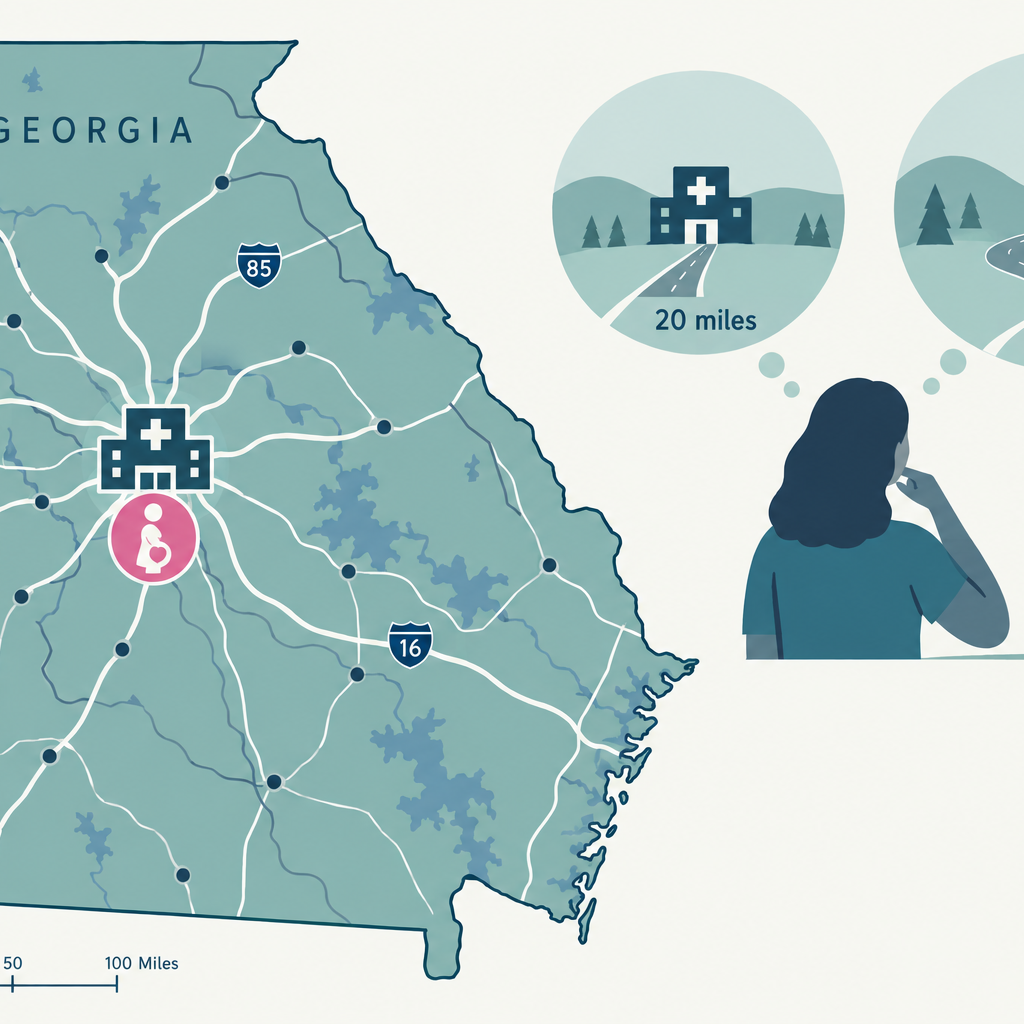
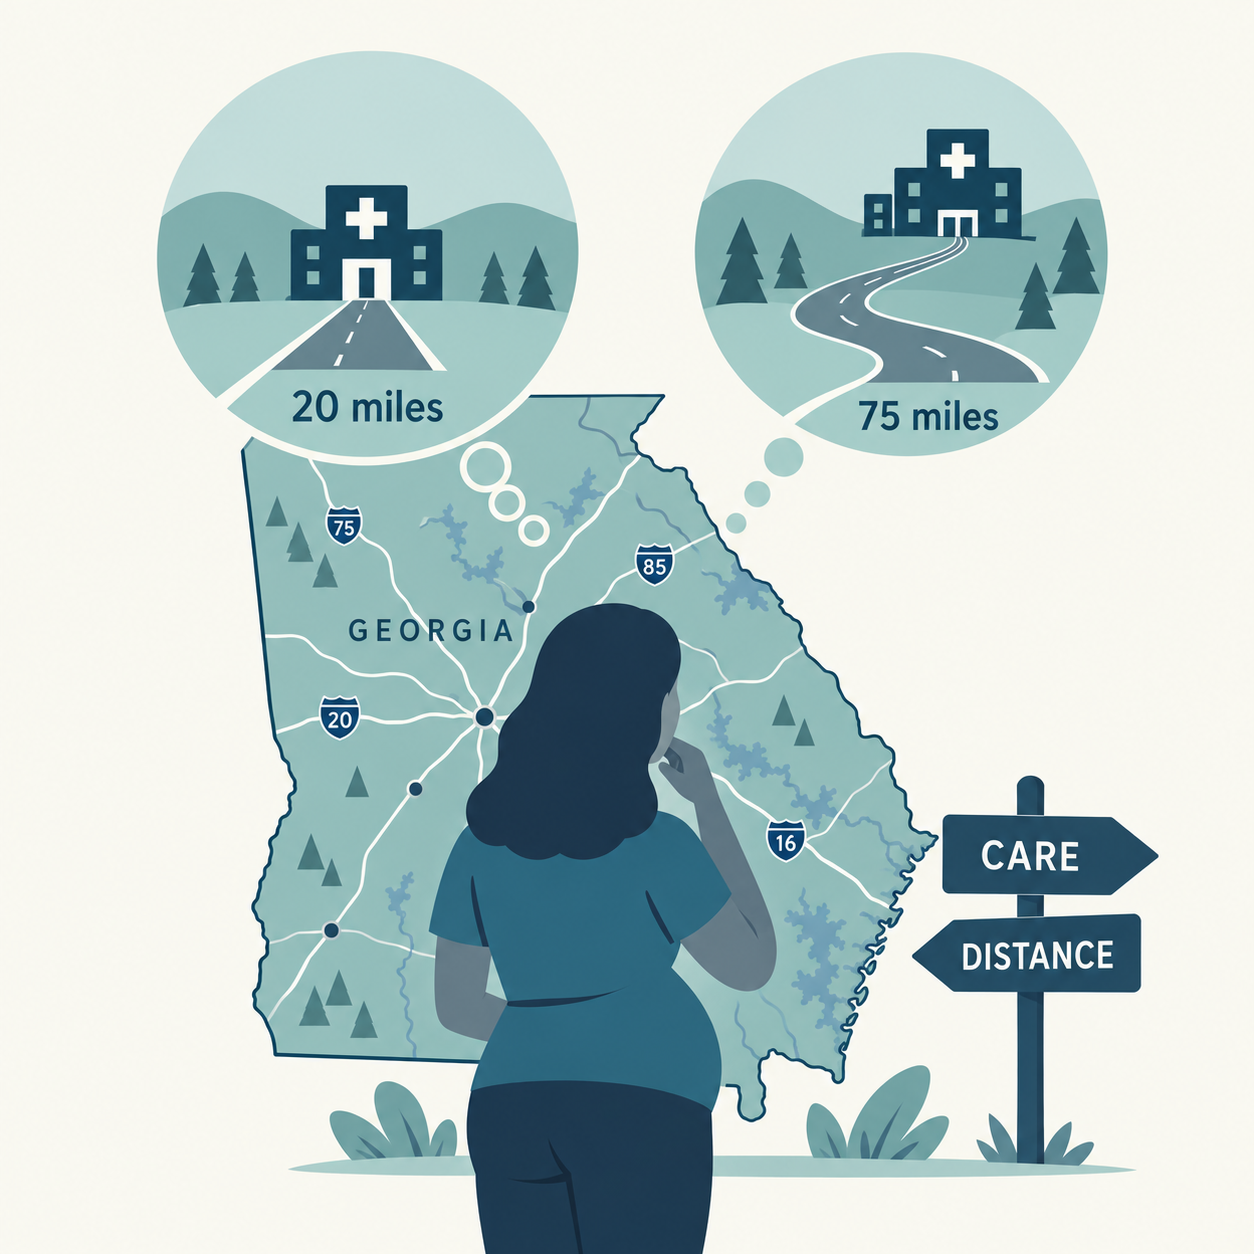
Use square thumbnail for mc-2026 (full distance/care composition)
Claude-Session: https://claude.ai/code/session_011BfToYPBP9Y3mcyvbUhhx1

diff --git a/docs/research/articles-medical/mc-2026/index.html b/docs/research/articles-medical/mc-2026/index.html
@@ -86,8 +86,8 @@ ul.task-list li input[type="checkbox"] {
 <meta name="twitter:image" content="https://www.ianmccarthyecon.com/research/articles-medical/mc-2026/thumbnail.png">
 <meta name="twitter:creator" content="@ianhealthecon">
 <meta name="twitter:site" content="@ianhealthecon">
-<meta name="twitter:image-height" content="1024">
-<meta name="twitter:image-width" content="1024">
+<meta name="twitter:image-height" content="1254">
+<meta name="twitter:image-width" content="1254">
 <meta name="twitter:card" content="summary_large_image">
 </head>
 
